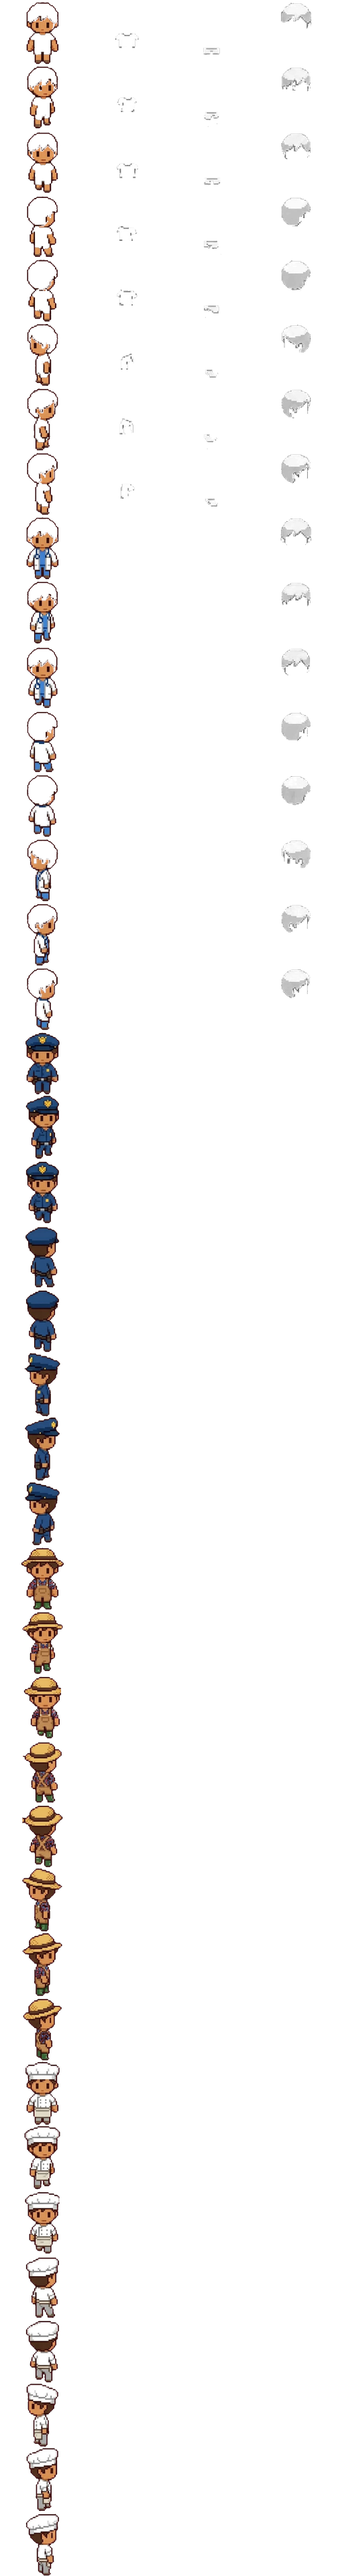
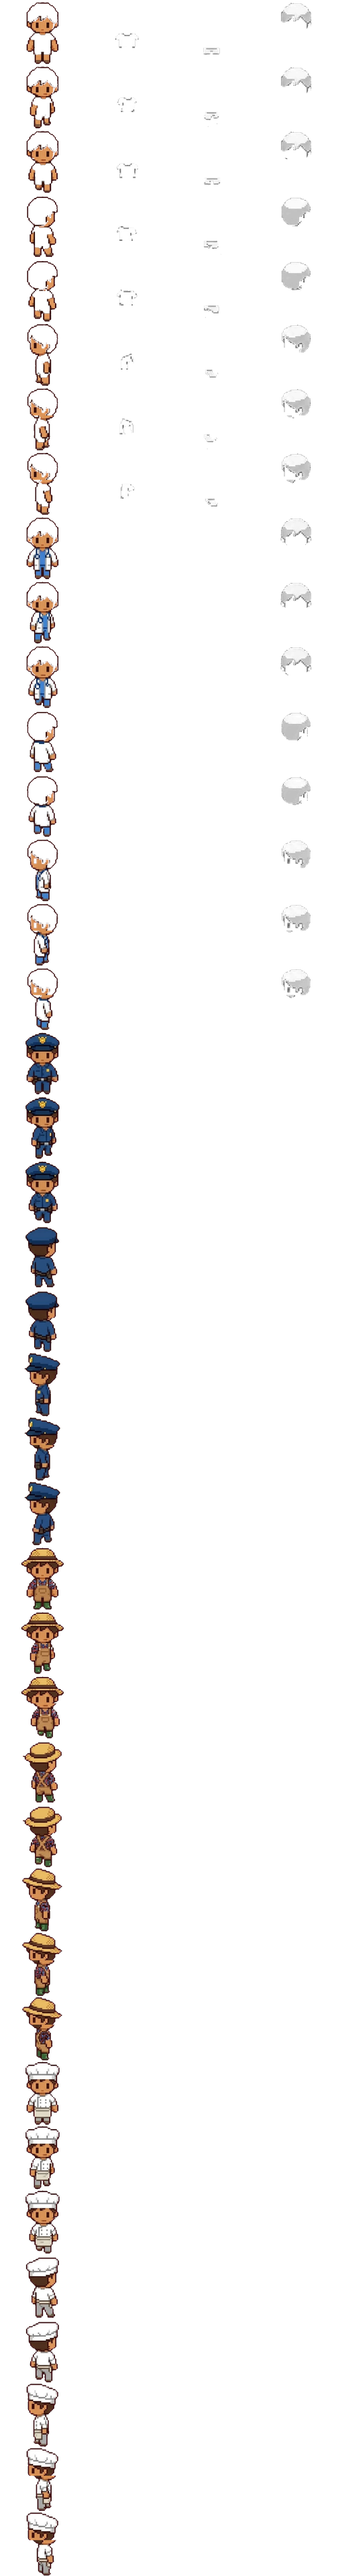
Lock the head while walking
The sheets' step frames draw the head at slightly different angles, so the face seemed
to turn every step. Each step frame now reuses the head of its direction's standing
frame; only the body and legs change.

Claude-Session: https://claude.ai/code/session_011vTRLcvJmqJKhBboYRSi88

diff --git a/tools/build_pixel_chars.py b/tools/build_pixel_chars.py
@@ -107,12 +107,29 @@ for outfit, (src, tint) in SHEETS.items():
 W = max(max(L['base'].width for L in [f[0]]) for f in frames.values()) * 2; H = max(f[3] for f in frames.values()) + 6
 sc = TARGET_H / H; cw, ch = round(W * sc), TARGET_H
 ORDER = ['base', 'shirt', 'pants', 'hair']
+# place every layer of every frame on the shared canvas
+canv = {}
+for name, (layers, x0, x1, yb) in frames.items():
+    cx = (x0 + x1) / 2; canv[name] = {}
+    for ln in ORDER:
+        c = Image.new('RGBA', (W, H), (0, 0, 0, 0)); c.alpha_composite(layers[ln], (round(W / 2 - cx), round(H - 3 - yb))); canv[name][ln] = c
+# lock the head while walking: the sheet's step frames draw the head at slightly different angles,
+# so each step frame gets the head (everything above the neck) of its direction's standing frame
+def neck_y(name):
+    a = np.zeros((H, W), bool)
+    for ln in ORDER: a |= np.array(canv[name][ln])[..., 3] > 60
+    ys = np.where(a.any(1))[0]; top, bot = ys.min(), ys.max()
+    return int(top + (bot - top) * 0.44)
+for name in frames:
+    pre, _, f = name.rpartition(':'); base = (pre + ':' if pre else '') + f[:-1] + '0'
+    if f.endswith('0') or base not in canv: continue
+    ny = neck_y(base)
+    for ln in ORDER:
+        step = np.array(canv[name][ln]); stand = np.array(canv[base][ln])
+        step[:ny] = stand[:ny]; canv[name][ln] = Image.fromarray(step, 'RGBA')
 atlas = Image.new('RGBA', (cw * len(ORDER), ch * len(frames)), (0, 0, 0, 0)); meta = {}
-for row, (name, (layers, x0, x1, yb)) in enumerate(frames.items()):
-    cx = (x0 + x1) / 2
-    for col, ln in enumerate(ORDER):
-        c = Image.new('RGBA', (W, H), (0, 0, 0, 0)); c.alpha_composite(layers[ln], (round(W / 2 - cx), round(H - 3 - yb)))
-        atlas.alpha_composite(c.resize((cw, ch), Image.LANCZOS), (col * cw, row * ch))
+for row, name in enumerate(frames):
+    for col, ln in enumerate(ORDER): atlas.alpha_composite(canv[name][ln].resize((cw, ch), Image.LANCZOS), (col * cw, row * ch))
     meta[name] = row
 atlas.save(OUT + '.webp', 'WEBP', lossless=True)
 json.dump({'w': cw, 'h': ch, 'feet': [cw / 2, ch - 3 * sc], 'layers': ORDER, 'rows': meta}, open(OUT + '.json', 'w'))
